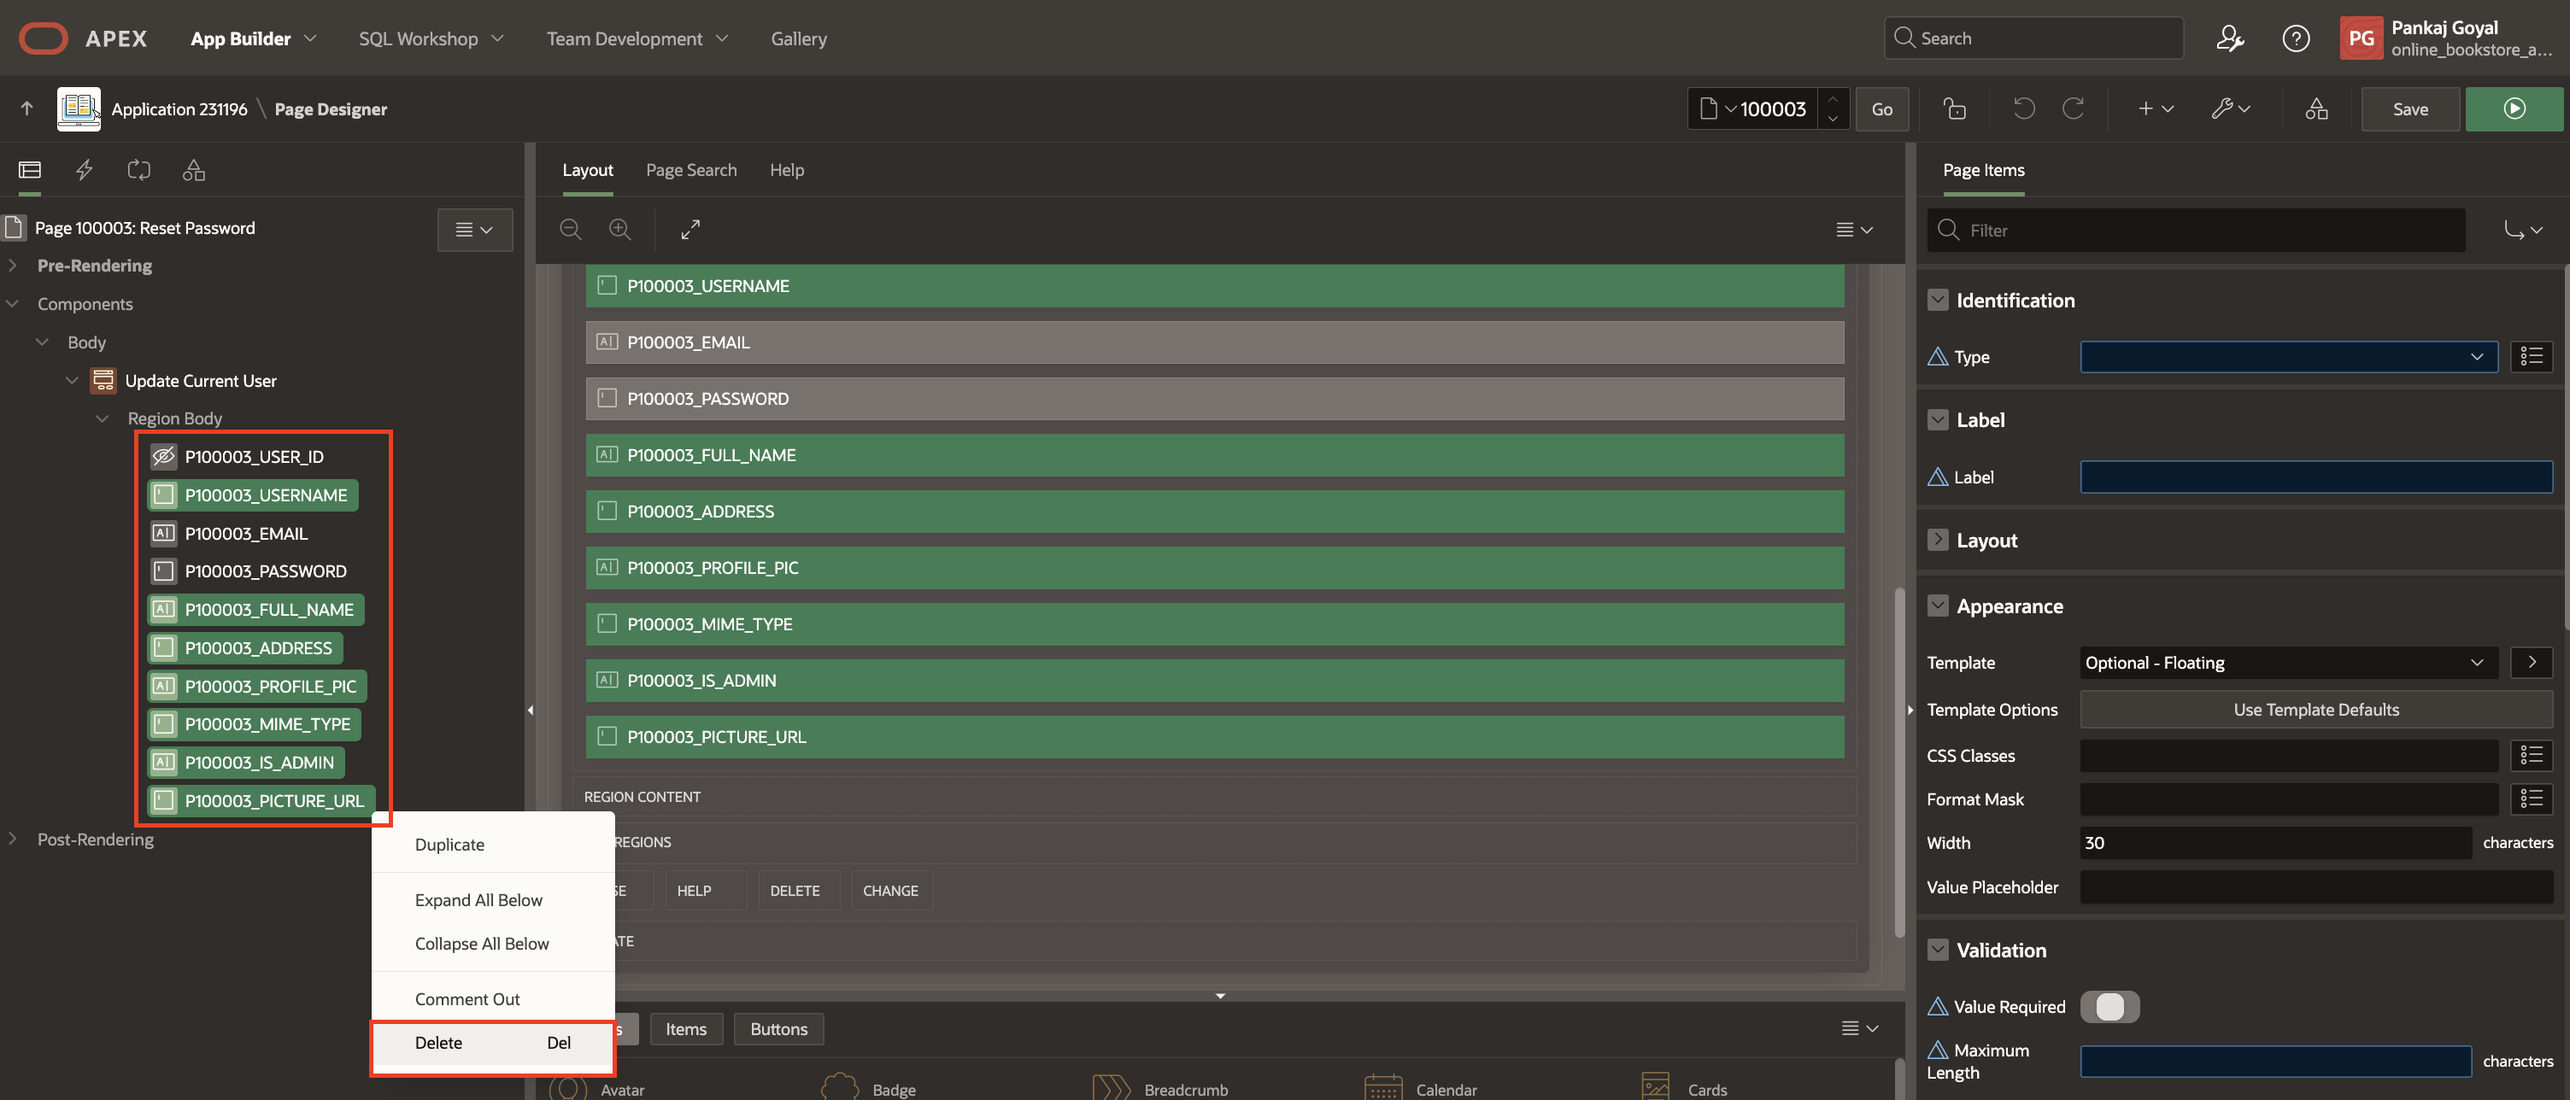
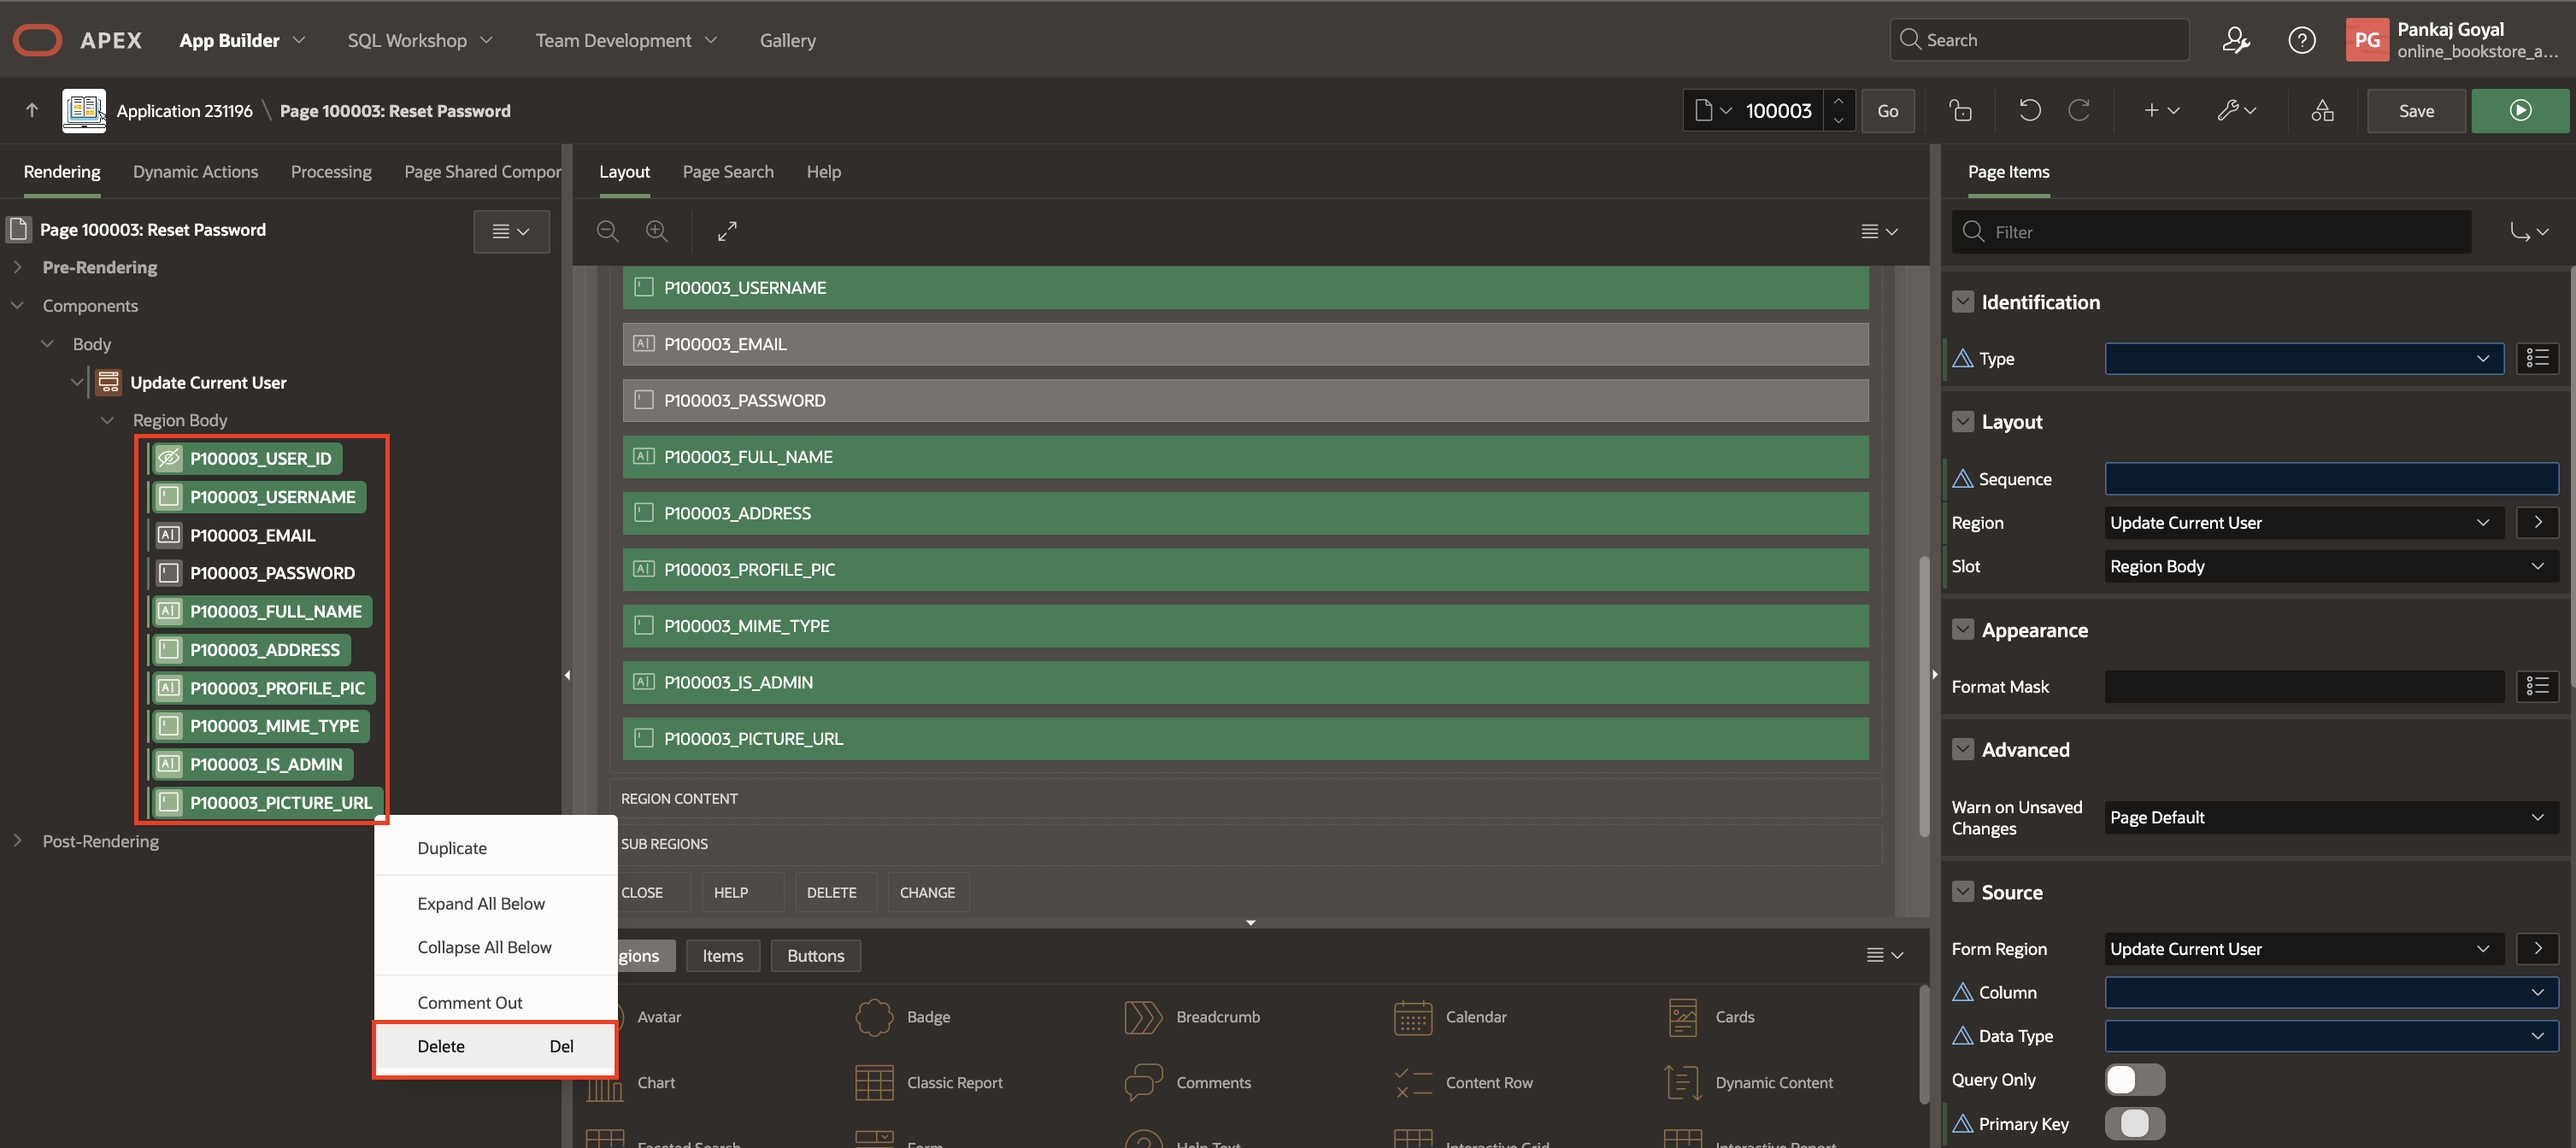
OBS - Changes in Lab 12 task 2

diff --git a/online-book-store-app/12-onboarding/12-onboarding.md b/online-book-store-app/12-onboarding/12-onboarding.md
@@ -349,7 +349,7 @@ Create the forgot password Page
 
     ![close dialog](images/12-2-rest-page-public.png " ")
 
-5. In the left pane, right-click **Body** and click **Create Region**.
+5. In the left pane, right-click **Body** and select **Create Region**.
 
    ![close dialog](images/12-2-create-region-reset.png " ")
 
@@ -365,7 +365,7 @@ Create the forgot password Page
 
     ![close dialog](images/12-2-update-current-user1.png " ")
 
-7. Under **Update Current User** region, select all page items except **P100003\_USER\_ID**, **P100003\_EMAIL** and **P100003\_PASSWORD**, right-click and select **Delete**.
+7. Under **Update Current User** region, select all page items except **P100003\_EMAIL** and **P100003\_PASSWORD**, right-click and select **Delete**.
 
    ![close dialog](images/12-2-del-page-items.png " ")
 
@@ -377,17 +377,17 @@ Create the forgot password Page
 
     - Security > Session State Protection: **Unrestricted**
 
-    ![close dialog](images/12-2-email-details.png " ")
+    ![close dialog](images/12-2-emaildetails.png " ")
 
 9. Select **P100003\_PASSWORD** and update the following:
 
     - Identification > Type: **Password**
 
-    ![close dialog](images/12-2-pass-type.png " ")
+    ![close dialog](images/12-2-password-type.png " ")
 
 10. Right-click **P100003\_PASSWORD** and select **Create Validation**.
 
-    ![close dialog](images/12-2-pass-validation.png " ")
+    ![close dialog](images/12-2-password-validation.png " ")
 
 11. In the Property editor, enter/select the following:
 
@@ -411,11 +411,11 @@ Create the forgot password Page
 
         - Error > Error Message: **Password field should have some value.**
 
-    ![close dialog](images/12-2-not-null-valid.png " ")
+    ![close dialog](images/12-2-not-null-validation.png " ")
 
 12. Right-click **Update Current User** and select **Create Page Item**.
 
-    ![close dialog](images/12-2-page-item-reset.png " ")
+    ![close dialog](images/12-2-pageitem-reset.png " ")
 
 13. In the Property editor, enter/select the following:
 
@@ -425,15 +425,15 @@ Create the forgot password Page
 
         - Type: **Password**
 
-    ![close dialog](images/12-2-confirm-pass-reset.png " ")
+    ![close dialog](images/12-2-confirm-password-reset.png " ")
 
 14. Right-click **P100003\_CONFIRM\_PASSWORD** and select **Create Validation**.
 
-    ![close dialog](images/12-2-create-val-con.png " ")
+    ![close dialog](images/12-2-create-validation-con.png " ")
 
 15. In the Property editor, enter/select the following:
 
-    - Identification > Name: **Not Null Validation1**
+    - Identification > Name: **Not Null Validation CF**
 
     - Under Validation:
 
@@ -453,11 +453,11 @@ Create the forgot password Page
 
     - Error > Error Message: **Password field should have some value.**
 
-    ![close dialog](images/12-2-not-null-cf.png " ")
+    ![close dialog](images/12-2-15-not-null-cf.png " ")
 
 16. Again, right-click **P100003\_CONFIRM\_PASSWORD** and select **Create Validation**.
 
-     ![close dialog](images/12-2-con-pass-create-vald.png " ")
+     ![close dialog](images/12-2-16-con-pass-create-vald.png " ")
 
 17. In the Property editor, enter/select the following:
 
@@ -483,11 +483,11 @@ Create the forgot password Page
 
     - Error > Error Message: **Confirm Password is not same as Password entered above.**
 
-    ![close dialog](images/12-2-compare-pass-valid.png " ")
+    ![close dialog](images/12-2-17-compare-pass-valid.png " ")
 
 18. Right-click **Update Current User** region and select **Create Sub-Region**.
 
-    ![close dialog](images/12-2-sub-region-reset.png " ")
+    ![close dialog](images/12-2-18-sub-region-reset.png " ")
 
 19. In the Property editor, enter/select the following:
 
@@ -505,11 +505,11 @@ Create the forgot password Page
 
             Click **OK**.
 
-    ![close dialog](images/12-2-button-reset.png " ")
+    ![close dialog](images/12-2-19-button-reset.png " ")
 
 20. Right-click **Buttons** and select **Create Button**.
 
-    ![close dialog](images/12-2-create-btn-reset.png " ")
+    ![close dialog](images/12-2-20-create-btn-reset.png " ")
 
 21. In the Property editor, enter/select the following:
 
@@ -529,11 +529,11 @@ Create the forgot password Page
 
             Click **OK**.
 
-    ![close dialog](images/12-2-cancel-reset.png " ")
+    ![close dialog](images/12-2-21-cancel-reset.png " ")
 
 22. Right-click **CANCEL** and select **Create Dynamic Action**.
 
-    ![close dialog](images/12-2-create-dyn-act-reset.png " ")
+    ![close dialog](images/12-2-22-create-dyn-act-reset.png " ")
 
 23. In the Property editor, enter/select the following:
 
@@ -541,11 +541,11 @@ Create the forgot password Page
 
     - When > Event: **Click**
 
-    ![close dialog](images/12-2-canel-dialog-reset.png " ")
+    ![close dialog](images/12-2-23-canel-dialog-reset.png " ")
 
 24. Right-click **Buttons** and select **Create Button**.
 
-    ![close dialog](images/12-2-create-button-save.png " ")
+    ![close dialog](images/12-2-24-create-button-save.png " ")
 
 25. In the Property editor, enter/select the following:
 
@@ -561,13 +561,13 @@ Create the forgot password Page
 
     - Behavior > Database Action: **SQL UPDATE action**
 
-    ![close dialog](images/12-2-save-btn-reset.png " ")
+    ![close dialog](images/12-2-25-save-btn-reset.png " ")
 
 26. Select  **Buttons** and in the Property editor, update the following:
 
     - Layout > Sequence: **70**
 
-    ![close dialog](images/12-2-buttons-layout.png " ")
+    ![close dialog](images/12-2-26-buttons-layout.png " ")
 
 27. Navigate to **Processing** tab, right-click **Processing** and select **Create Process**.
 
